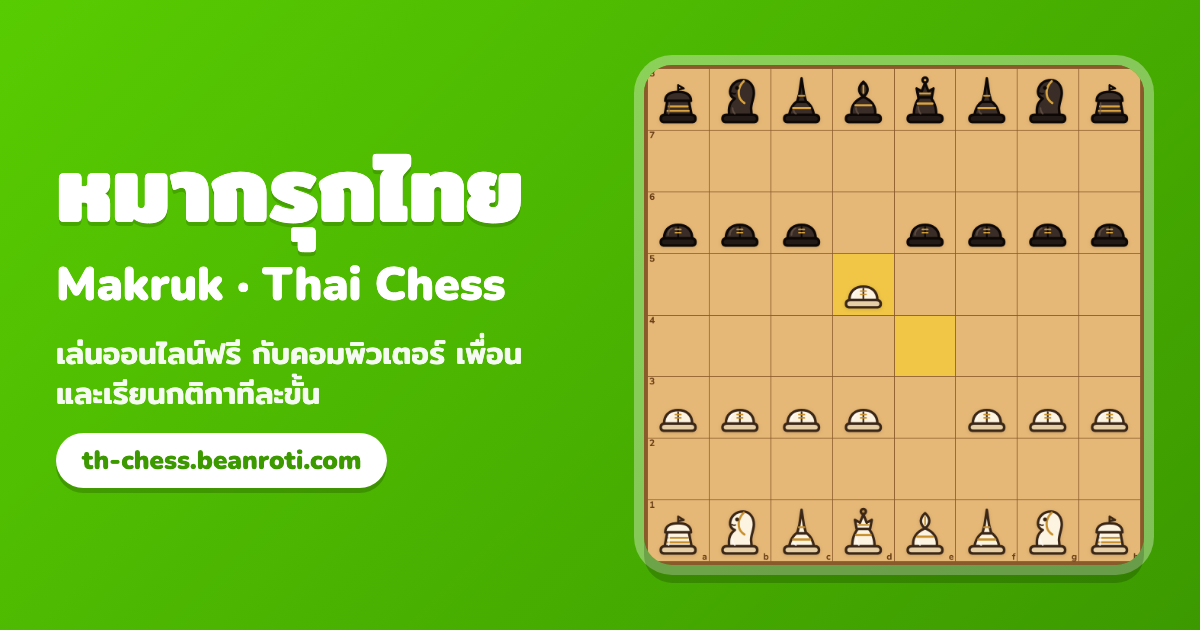
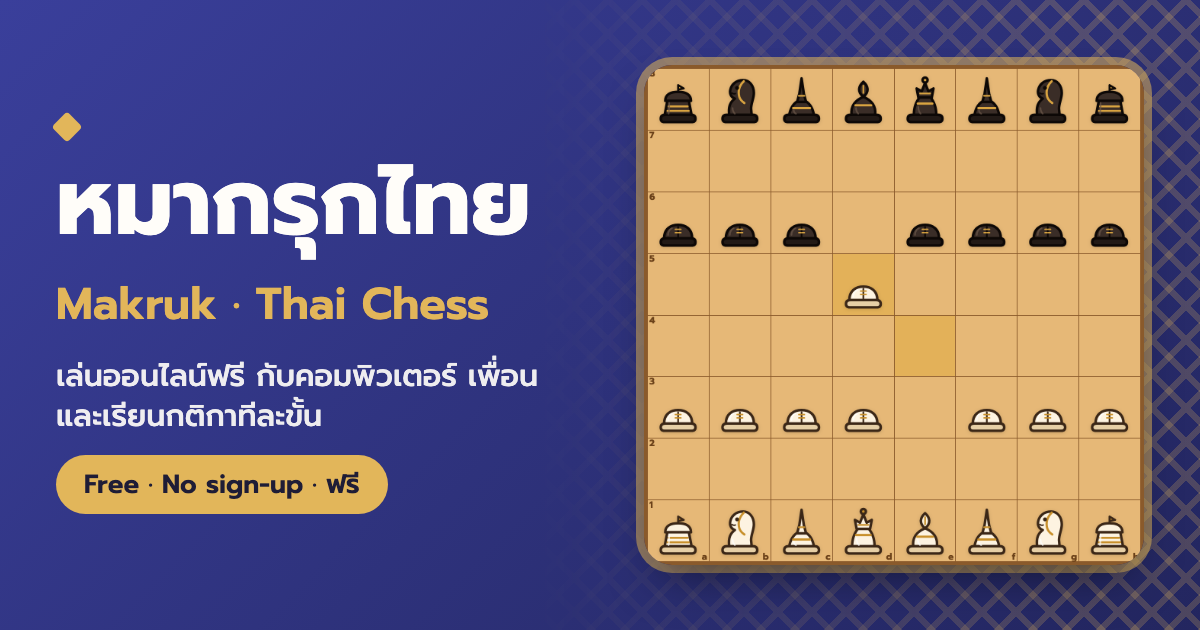
feat(web): crawlable Makruk intro on home; refresh share image and README demos
- Home page gains a short Thai/English section about playing Thai chess
  online (keywords people search for), rendered as plain text.
- Social preview image redrawn in the Wat palette without the domain.
- README GIFs and screenshots re-recorded from the redesigned live site;
  the online GIF starts after both players join so no URL is shown.

Claude-Session: https://claude.ai/code/session_01BTUQYmmpv79vi3g3vXYuuy

diff --git a/apps/web/src/pages/HomePage.tsx b/apps/web/src/pages/HomePage.tsx
@@ -70,6 +70,15 @@ export function HomePage() {
         </ul>
       </section>
 
+      {/* seo-001: plain, crawlable text about Makruk for people searching "Thai chess online" / "หมากรุกไทย". */}
+      <section aria-labelledby="about-makruk" data-testid="home-about" className="flex flex-col gap-2 rounded-[1.25rem] border border-line bg-surface p-5 shadow-card">
+        <h2 id="about-makruk" className="text-xl font-bold">
+          {t('home.aboutTitle')}
+        </h2>
+        <p className="text-muted">{t('home.aboutBody1')}</p>
+        <p className="text-muted">{t('home.aboutBody2')}</p>
+      </section>
+
       <footer className="text-center text-sm text-muted">
         {t('status.label')}:{' '}
         <span className={status === 'ok' ? 'text-secondary' : status === 'down' ? 'text-danger' : ''}>
